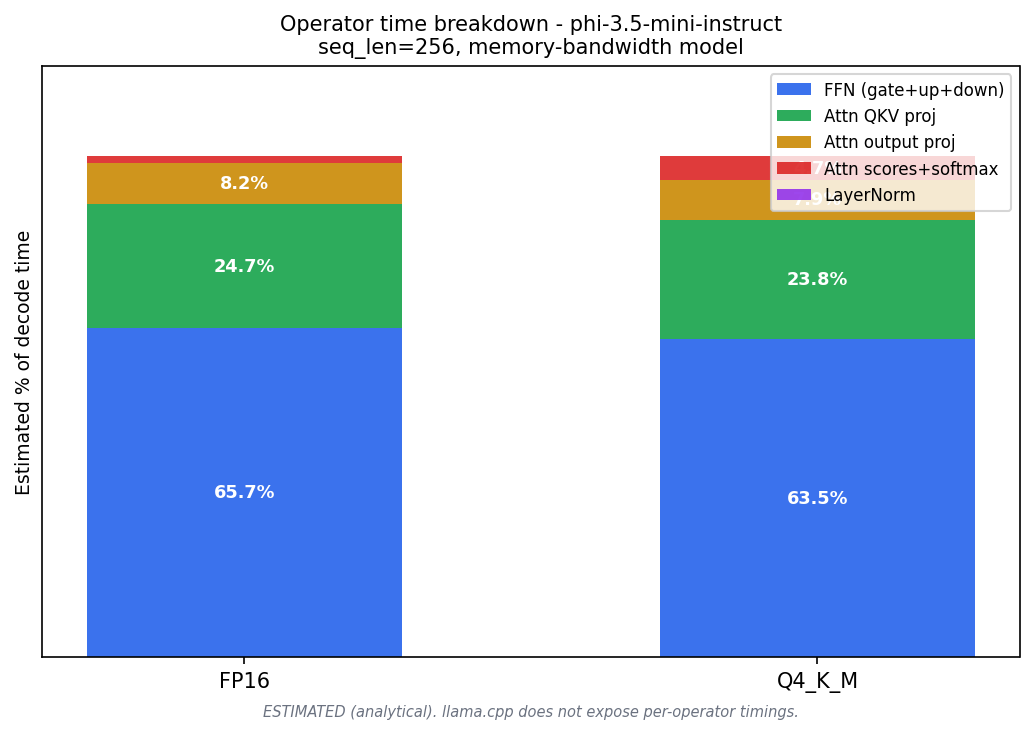
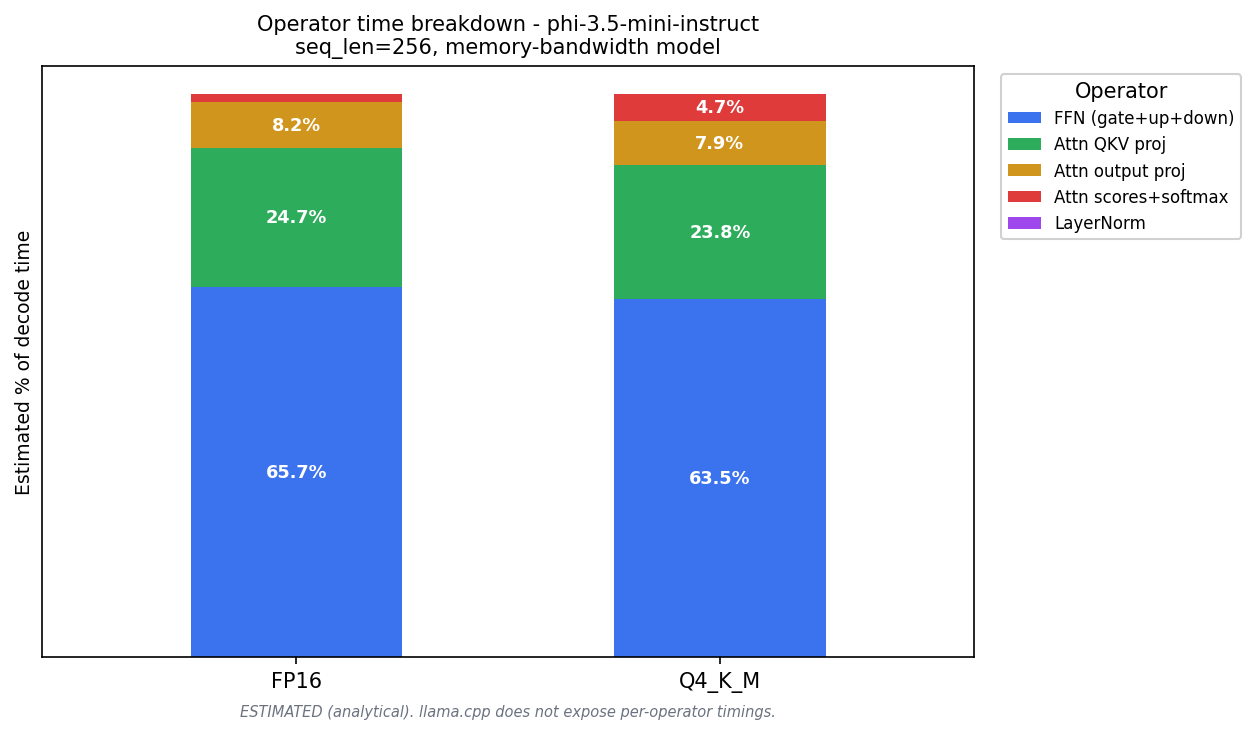
Fix plot readability: move legends outside, color MCU scatter by model

diff --git a/src/analysis/report.py b/src/analysis/report.py
@@ -189,37 +189,42 @@ def _plot_mcu_comparison(df: pd.DataFrame, out_path: Path) -> None:
 
     fig, ax = plt.subplots(figsize=(9, 5))
 
-    # Mac LLMs: params_b (B) vs ms/token (1000 / tps)
+    # Mac LLMs: one color per model (quants share a color) + a legend, so the
+    # clustered points don't need per-point text labels (which overlap badly).
     llm_sub = df.dropna(subset=["model_params_b", "tps_median"])
     if not llm_sub.empty:
-        for _, row in llm_sub.iterrows():
-            ms_per_tok = 1000.0 / row["tps_median"]
-            label = f"{row['model_id'].split('-instruct')[0]} {row['quant_name']}"
-            ax.scatter(row["model_params_b"] * 1e9, ms_per_tok,
-                       marker="o", s=80, zorder=3)
-            ax.annotate(label, (row["model_params_b"] * 1e9, ms_per_tok),
-                        fontsize=7, textcoords="offset points", xytext=(5, 3))
+        models = sorted(llm_sub["model_id"].unique(),
+                        key=lambda m: llm_sub[llm_sub["model_id"] == m]["model_params_b"].iloc[0])
+        cmap = plt.get_cmap("viridis")
+        colors = {m: cmap(i / max(len(models) - 1, 1)) for i, m in enumerate(models)}
+        for m in models:
+            sub = llm_sub[llm_sub["model_id"] == m]
+            short = m.split("-instruct")[0]
+            ax.scatter(sub["model_params_b"] * 1e9, 1000.0 / sub["tps_median"],
+                       marker="o", s=70, color=colors[m], edgecolor="white",
+                       linewidth=0.5, zorder=3, label=short)
 
-    # Cortex-M4 LSTM (165K params, 13.5 ms/inference, ESTIMATED)
+    # Cortex-M4 LSTM (isolated lower-left point: a single annotation is fine).
     if mcu_json.exists():
         mcu = json.loads(mcu_json.read_text())
         mcu_params = 165_000
         mcu_latency_ms = mcu.get("latency_us", 139404) / 1000.0
         sim = mcu.get("simulation_method", "")
         tag = "Renode sim" if "renode" in sim else "ESTIMATED"
-        ax.scatter(mcu_params, mcu_latency_ms, marker="^", s=120, color="red", zorder=4)
-        ax.annotate(f"LSTM-AE (Cortex-M4)\n[{tag}]",
-                    (mcu_params, mcu_latency_ms),
-                    fontsize=7, color="red", textcoords="offset points", xytext=(5, 3))
+        ax.scatter(mcu_params, mcu_latency_ms, marker="^", s=140, color="red",
+                   edgecolor="white", linewidth=0.5, zorder=4,
+                   label=f"LSTM-AE Cortex-M4 [{tag}]")
 
     ax.set_xscale("log")
     ax.set_yscale("log")
     ax.set_xlabel("Model parameters (log scale)")
-    ax.set_ylabel("Latency ms/token or ms/inference (log scale)")
+    ax.set_ylabel("Latency: ms/token (LLMs) or ms/inference (LSTM), log scale")
     ax.set_title("Mac LLMs vs Cortex-M4 LSTM: Model Size vs Latency")
     ax.grid(True, which="both", linestyle="--", alpha=0.4)
+    ax.legend(loc="upper left", bbox_to_anchor=(1.02, 1.0), fontsize=8,
+              title="Model (each dot = one quant)", framealpha=0.9)
     fig.tight_layout()
-    fig.savefig(out_path, dpi=150)
+    fig.savefig(out_path, dpi=150, bbox_inches="tight")
     plt.close(fig)
 
 

diff --git a/src/benchmarks/profiling.py b/src/benchmarks/profiling.py
@@ -151,12 +151,12 @@ def plot_operator_breakdown(profiles: list[OperatorProfile], out_path: Path) -> 
     x = np.arange(len(profiles))
     labels = [p.quant_name for p in profiles]
 
-    fig, ax = plt.subplots(figsize=(7, 5))
+    fig, ax = plt.subplots(figsize=(8.5, 5))
     bottoms = np.zeros(len(profiles))
 
     for name, attr, color in operator_keys:
         vals = np.array([getattr(p, attr) * 100 for p in profiles])
-        ax.bar(x, vals, bottom=bottoms, label=name, color=color, width=0.55, alpha=0.9)
+        ax.bar(x, vals, bottom=bottoms, label=name, color=color, width=0.5, alpha=0.9)
         for i, (v, b) in enumerate(zip(vals, bottoms)):
             if v > 2.5:
                 ax.text(
@@ -168,14 +168,17 @@ def plot_operator_breakdown(profiles: list[OperatorProfile], out_path: Path) -> 
 
     ax.set_xticks(x)
     ax.set_xticklabels(labels, fontsize=10)
+    ax.set_xlim(-0.6, len(profiles) - 0.4)
     ax.set_ylabel("Estimated % of decode time", fontsize=9)
     ax.set_title(
         f"Operator time breakdown - {profiles[0].model_id}\n"
         f"seq_len={profiles[0].seq_len}, memory-bandwidth model",
         fontsize=10,
     )
-    ax.legend(loc="upper right", fontsize=8, framealpha=0.8)
-    ax.set_ylim(0, 118)
+    # Legend outside the plot area so it never overlaps the bars.
+    ax.legend(loc="upper left", bbox_to_anchor=(1.02, 1.0), fontsize=8,
+              framealpha=0.9, title="Operator")
+    ax.set_ylim(0, 105)
     ax.set_yticks([])
 
     ax.text(